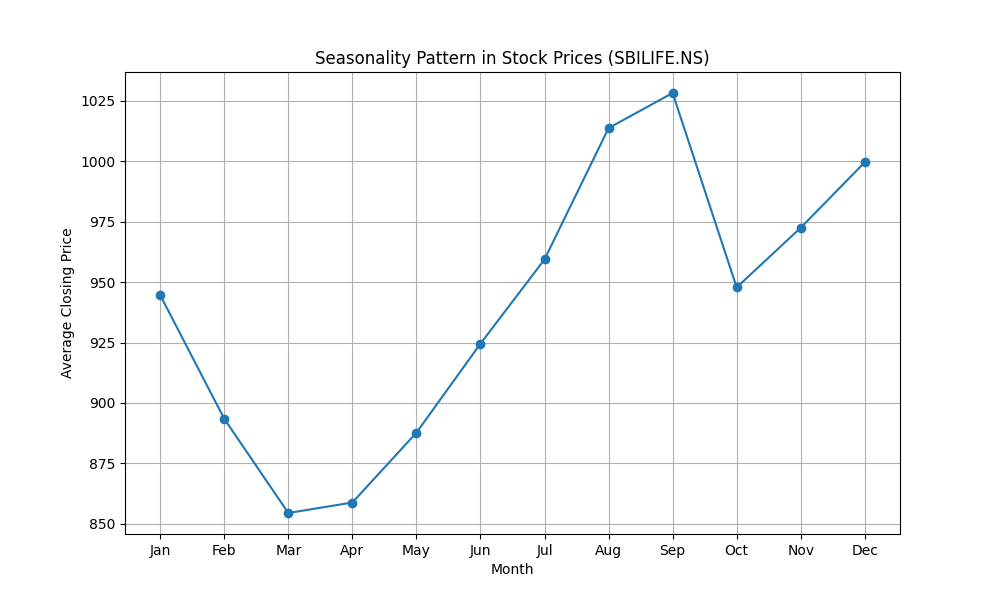
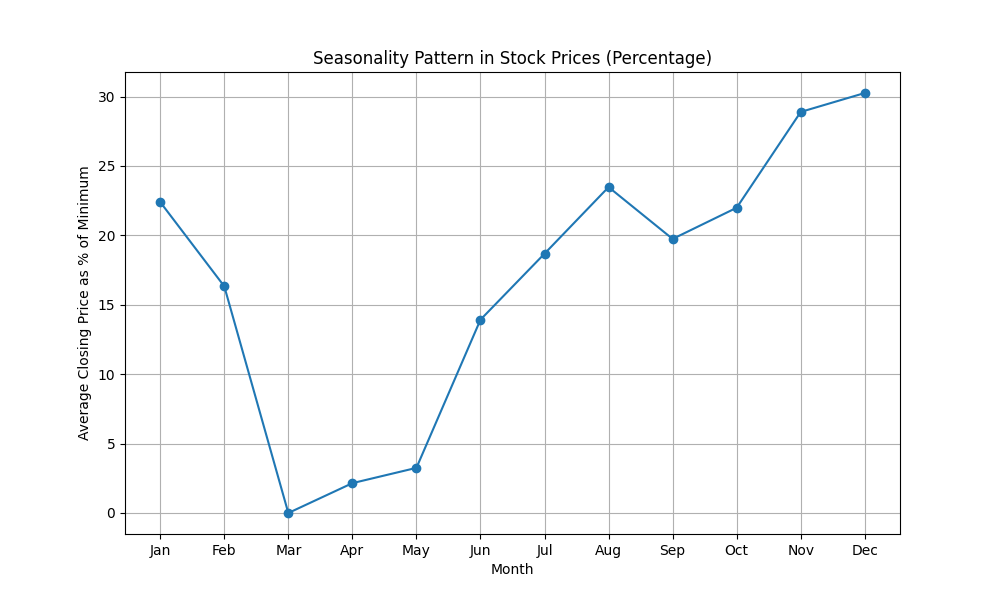
Made small changes

diff --git a/app.py b/app.py
@@ -142,13 +142,16 @@ def seasonality():
     data['Month'] = data.index.month
     monthly_avg_close = data.groupby('Month')['Close'].mean()
 
+    min_value = monthly_avg_close.min()
+    monthly_avg_close_percentage = ((monthly_avg_close - min_value) / monthly_avg_close) * 100
+
     # Plot the seasonality graph
     plt.figure(figsize=(10, 6))
-    plt.plot(monthly_avg_close.index, monthly_avg_close.values, marker='o')
-    plt.xticks(monthly_avg_close.index, ['Jan', 'Feb', 'Mar', 'Apr', 'May', 'Jun', 'Jul', 'Aug', 'Sep', 'Oct', 'Nov', 'Dec'])
+    plt.plot(monthly_avg_close_percentage.index, monthly_avg_close_percentage.values, marker='o')
+    plt.xticks(monthly_avg_close_percentage.index, ['Jan', 'Feb', 'Mar', 'Apr', 'May', 'Jun', 'Jul', 'Aug', 'Sep', 'Oct', 'Nov', 'Dec'])
     plt.xlabel('Month')
-    plt.ylabel('Average Closing Price')
-    plt.title(f'Seasonality Pattern in Stock Prices ({stock_symbol})')
+    plt.ylabel('Average Closing Price as % of Minimum')
+    plt.title('Seasonality Pattern in Stock Prices (Percentage)')
 
     plt.grid(True)
 
